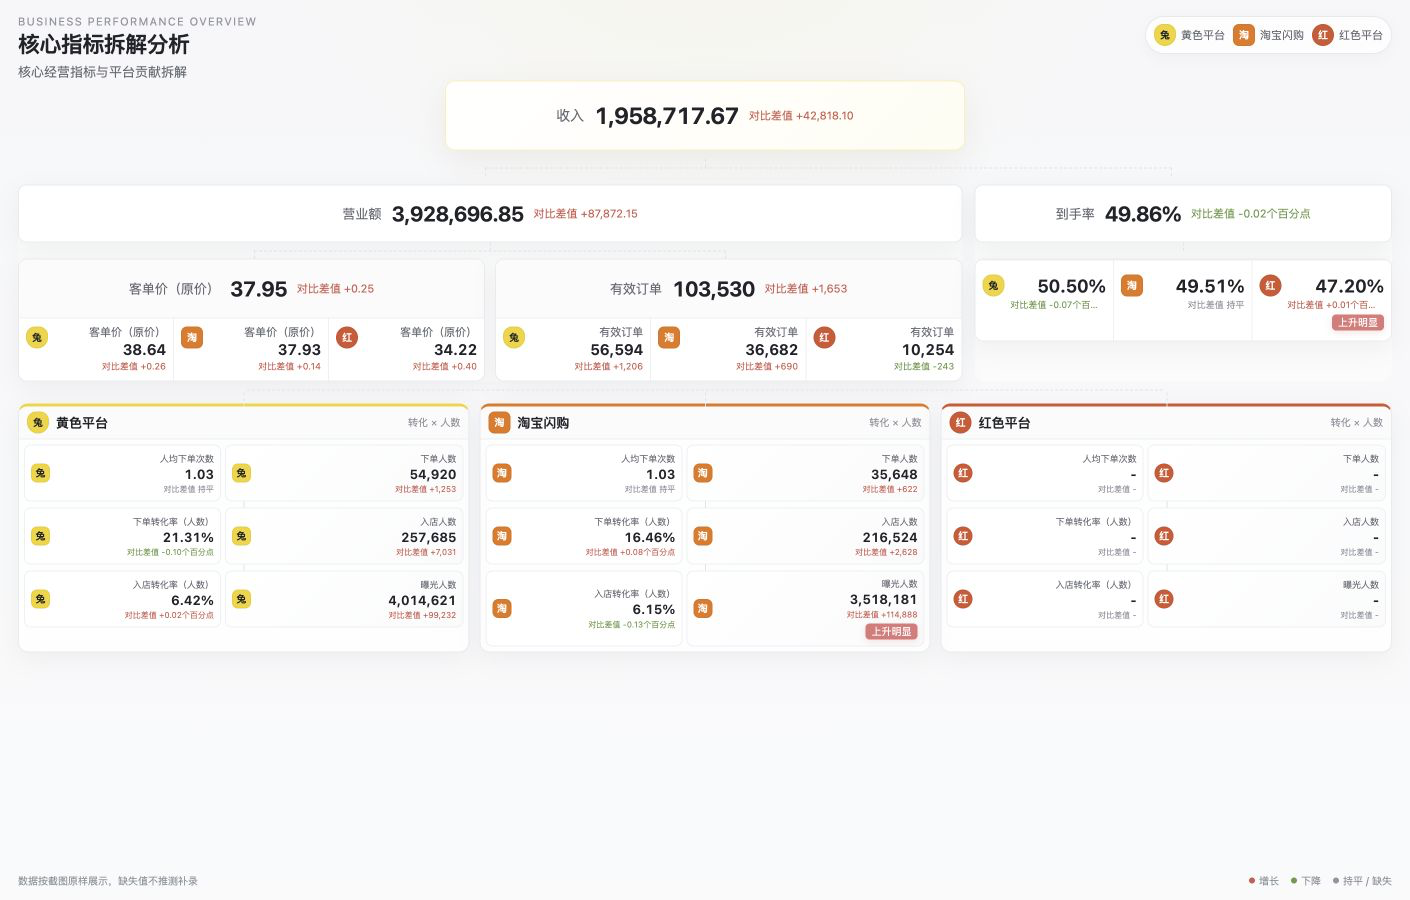
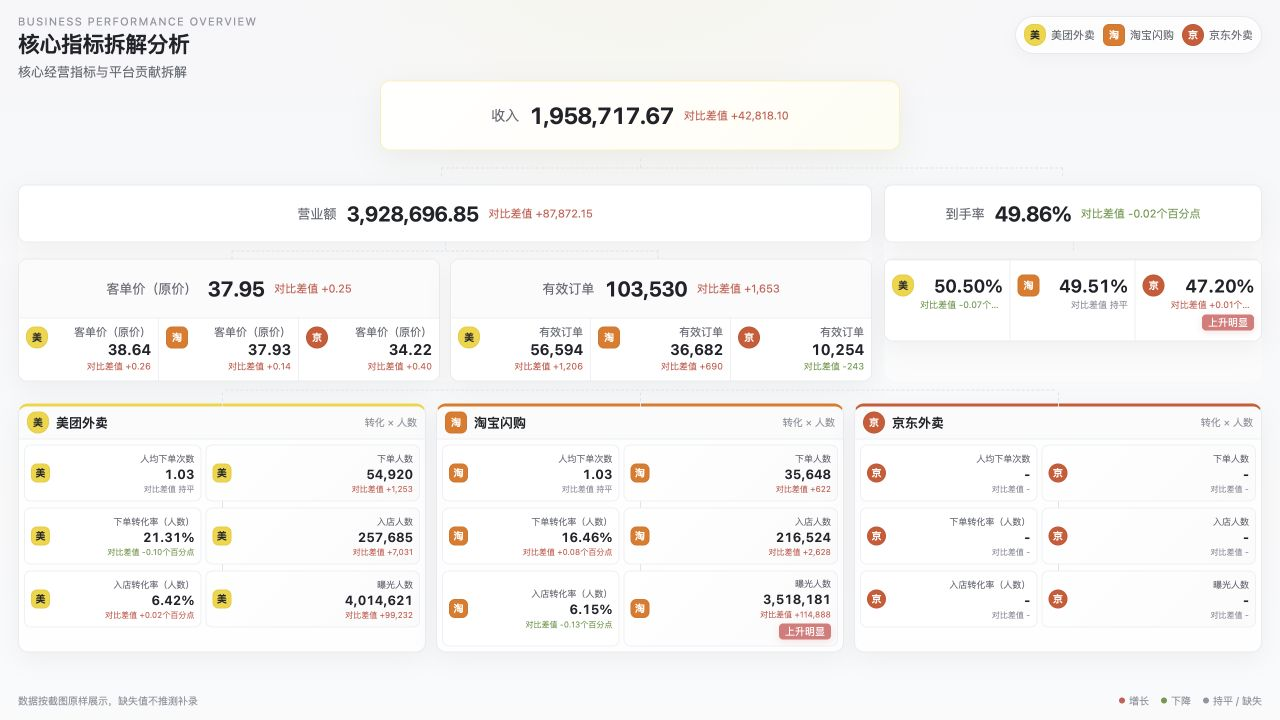
fix platform names to Meituan and JD delivery

diff --git a/index.html b/index.html
@@ -559,9 +559,9 @@
         <p class="subtitle">核心经营指标与平台贡献拆解</p>
       </div>
       <nav class="platform-legend" aria-label="平台图例">
-        <span class="legend-item"><span class="platform-mark rabbit" aria-hidden="true">兔</span>黄色平台</span>
+        <span class="legend-item"><span class="platform-mark rabbit" aria-hidden="true">美</span>美团外卖</span>
         <span class="legend-item"><span class="platform-mark square" aria-hidden="true">淘</span>淘宝闪购</span>
-        <span class="legend-item"><span class="platform-mark circle" aria-hidden="true">红</span>红色平台</span>
+        <span class="legend-item"><span class="platform-mark circle" aria-hidden="true">京</span>京东外卖</span>
       </nav>
     </header>
 
@@ -620,7 +620,7 @@
   },
   "platforms": {
     "yellow": {
-      "label": "黄色平台",
+      "label": "美团外卖",
       "marker": "rabbit",
       "metrics": {
         "takeRate": ["50.50%", "-0.07个百分点", "negative", null],
@@ -650,7 +650,7 @@
       }
     },
     "red": {
-      "label": "红色平台",
+      "label": "京东外卖",
       "marker": "circle",
       "metrics": {
         "takeRate": ["47.20%", "+0.01个百分点", "positive", "上升明显"],
@@ -684,7 +684,7 @@
         exposure: '曝光人数'
       };
 
-      const markerText = { yellow: '兔', taobao: '淘', red: '红' };
+      const markerText = { yellow: '美', taobao: '淘', red: '京' };
 
       function deltaMarkup(delta, tone) {
         return `<span class="delta ${tone}">${delta}</span>`;

diff --git a/README.md b/README.md
@@ -18,7 +18,7 @@
 
 ## 数据说明
 
-所有数值按原始截图录入，未对缺失数据进行推测。黄色和红色平台的品牌名称在截图中没有完整展示，因此页面使用“黄色平台”和“红色平台”作为中性标签。
+所有数值按原始截图录入，未对缺失数据进行推测。三个平台依次为美团外卖、淘宝闪购和京东外卖。
 
 ## 隐私提示
 